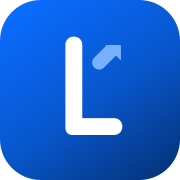
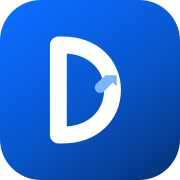
fix: ícono D de DuqueLabs de verdad + modelo GROQ vigente
- El ícono anterior seguía siendo la 'L' de LocalRank (solo se recoloró);
  ahora es una D blanca trazada con extremos redondeados sobre el gradiente
  azul iOS + chispa. Regenerados icon.svg, apple-touch-icon (180),
  icon-192 e icon-512
- GROQ retiró llama-3.3-70b-versatile (404 model_not_found en agent/chat):
  la BD pasa a openai/gpt-oss-120b (probado OK con la llave del usuario),
  igual que el default del código y el catálogo de Ajustes

Changed region(s): [[0.2778, 0.1944, 0.6944, 0.8056]]

diff --git a/src/app/(app)/settings/ai-providers/page.tsx b/src/app/(app)/settings/ai-providers/page.tsx
@@ -125,7 +125,7 @@ const AI_PROVIDERS: Provider[] = [
     description: "Inferencia ultra-rápida en hardware LPU: Llama, Mixtral",
     baseUrl: "https://api.groq.com/openai/v1",
     docsUrl: "https://console.groq.com/docs",
-    models: ["llama-3.3-70b-versatile", "mixtral-8x7b-32768", "gemma2-9b-it"],
+    models: ["openai/gpt-oss-120b", "openai/gpt-oss-20b", "qwen/qwen3.8-27b"],
     free: true,
   },
   {

diff --git a/src/server/ai/settings.ts b/src/server/ai/settings.ts
@@ -31,7 +31,7 @@ export const PRESET_BASE_URLS: Record<string, string> = {
 /** Modelo por defecto cuando la fila no guarda uno (proveedores principales). */
 const DEFAULT_MODELS: Record<string, string> = {
   openrouter: "openrouter/auto",
-  groq: "llama-3.3-70b-versatile",
+  groq: "openai/gpt-oss-120b",
   nvidia: "nvidia/llama-3.1-nemotron-70b",
   openai: "gpt-4o-mini",
 };
